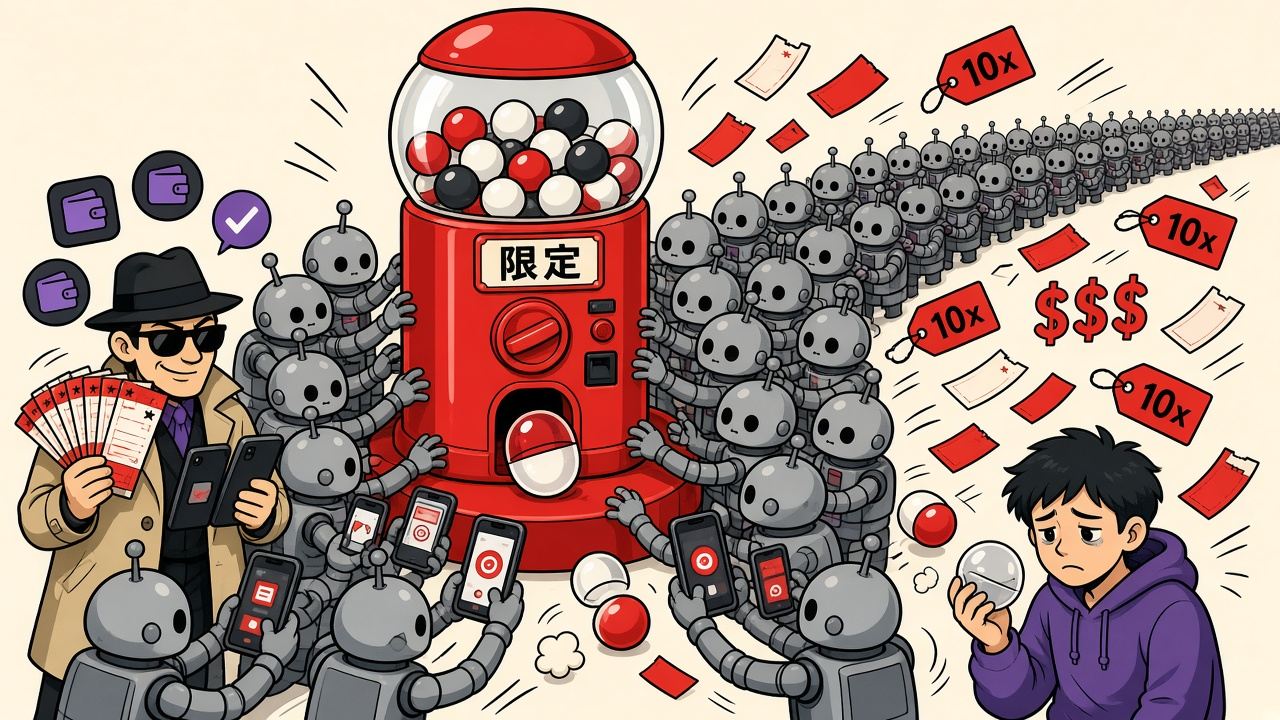
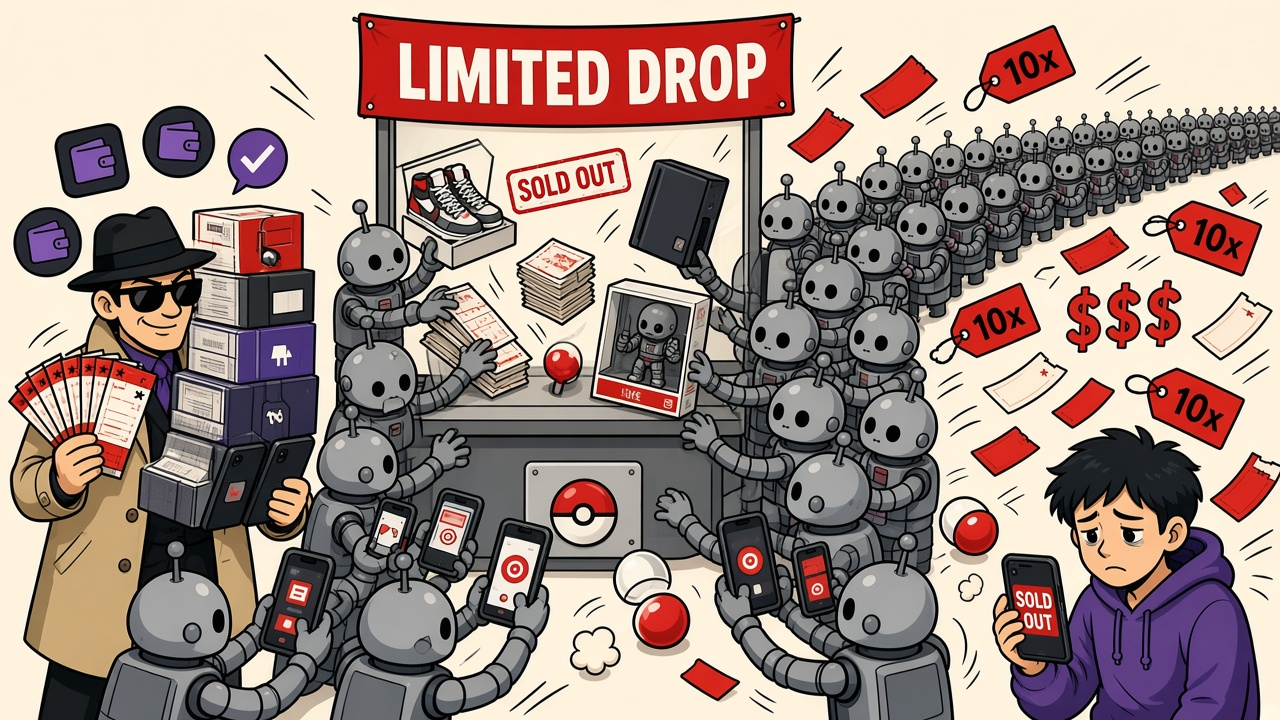
The problem is scalping of any limited drop; the capsule machine is just what we bring to the booth. Cleaner how-it-fits diagram

diff --git a/README.md b/README.md
@@ -4,7 +4,7 @@
   <img src="images/brand/asp-lockup.png" alt="Asp 限定自販機" width="45%"/>
 
 **One human. One item. Settled on Monad.**  
-A drop machine where every claim is a USDC payment on Monad that only a real person can make.
+Anti-scalping for limited drops: every claim is a USDC payment on Monad that only a real, verified person can make.
 
 <sub>BUILT ON</sub>&nbsp;&nbsp;<a href="https://monad.xyz"><img src="images/monad/monad-logo.svg" alt="Monad" height="22" align="absmiddle"/></a>
 
@@ -22,7 +22,7 @@ A drop machine where every claim is a USDC payment on Monad that only a real per
 | Track | **03 · Social, Attention & Culture**: ticketing and access that follow a *person*, not an email or a wallet |
 | On Monad | Kiosk payments verified on-chain · [`AspDrop`](https://monadvision.com/address/0x942c1a378b961fb7a95b83ecaf55fecee42c6187) ERC-721 with on-chain art · x402 agent payments with our own Monad facilitator |
 | Identity | World ID (Proof of Human), so only real people reach the Monad payment |
-| Hardware | XIAO ESP32-C5 gachapon that turns only after Monad confirms the payment |
+| Demo | A physical capsule machine (XIAO ESP32-C5) and an on-chain NFT drop, both released only after Monad confirms the payment |
 | Live | [altaga-asp.expo.app](https://altaga-asp.expo.app) |
 
 Built inside the [Metropolis](https://monad.xyz/developers/hackathons/metropolis) window: the repo starts on 30 Sep 2026.
@@ -34,17 +34,17 @@ Built inside the [Metropolis](https://monad.xyz/developers/hackathons/metropolis
 <div align="center">
   <img src="images/monad/monad-logo.svg" alt="Monad" height="40"/>
   <br/><br/>
-  <img src="images/monad-fair-drop.jpg" alt="One fan pays on Monad and gets one capsule; bots stay behind the glass" width="85%"/>
+  <img src="images/monad-fair-drop.jpg" alt="One verified fan pays on Monad and gets one item; bots stay behind the glass" width="85%"/>
 </div>
 
-Monad is the source of truth in Asp. A machine doesn't move, and an NFT doesn't mint, until the chain says the money arrived.
+Monad is the source of truth in Asp. Nothing is released, whether a physical item, an NFT or an access pass, until the chain says the money arrived.
 
 ```mermaid
 flowchart LR
   Pay["Phone wallet<br/>USDC transfer"]:::monad --> Chain[("Monad mainnet")]:::monad
   Agent["Agent<br/>x402 authorization"]:::monad --> Chain
   Chain -->|receipt verified| GW[asp-gateway]
-  GW -->|one turn| Motor[Gachapon]
+  GW -->|release once| Item["Physical item<br/>(demo: capsule machine)"]
   GW -->|"release()"| Drop["AspDrop<br/>on Monad"]:::monad
   classDef monad fill:#836EF9,stroke:#5B45D6,color:#fff
 ```
@@ -72,7 +72,7 @@ The nonce tag is `keccak256("asp-kiosk:" + nonce)`, appended to a normal `transf
 
 ### <img src="images/monad/monad-mark.svg" height="20"/> 2 · The drop lives on Monad
 
-[`AspDrop`](https://monadvision.com/address/0x942c1a378b961fb7a95b83ecaf55fecee42c6187) is a 20-edition ERC-721 on Monad mainnet. The capsule art is generated **by the contract** (`tokenURI` → base64 JSON → base64 SVG), so there's no IPFS and no server to go down.
+Digital limited items get the same protection. [`AspDrop`](https://monadvision.com/address/0x942c1a378b961fb7a95b83ecaf55fecee42c6187) is a 20-edition ERC-721 on Monad mainnet, and the demo's collection. The art is generated **by the contract** (`tokenURI` → base64 JSON → base64 SVG), so there's no IPFS and no server to go down.
 
 ```mermaid
 flowchart LR
@@ -104,10 +104,10 @@ flowchart LR
 
 ### Why Monad
 
-| | Why it matters at a vending machine |
+| | Why it matters for a drop |
 |---|---|
-| **Sub-second blocks** | Someone is standing in front of the machine. The payment confirms before they look up from the phone. |
-| **Cheap gas** | Minting a collectible per claim, and verifying every claim on-chain, only makes sense when it costs fractions of a cent. |
+| **Sub-second blocks** | Drops sell out in seconds and someone is standing at the counter. The payment confirms before they look up from the phone. |
+| **Cheap gas** | Verifying every claim on-chain, and minting a collectible per claim, only makes sense when it costs fractions of a cent. |
 | **Full EVM** | Circle USDC with EIP-3009, solc, viem, wagmi, Reown AppKit and x402's EVM scheme all work unchanged. |
 
 | On Monad mainnet | Address |
@@ -121,12 +121,12 @@ flowchart LR
 ## The problem
 
 <div align="center">
-  <img src="images/problem-scalpers.jpg" alt="Bots, farmed wallets and a reseller swarm a limited capsule machine while the real fan walks away empty-handed" width="85%"/>
+  <img src="images/problem-scalpers.jpg" alt="Bots and a reseller sweep a limited drop of sneakers, tickets and consoles while the real fan sees SOLD OUT" width="85%"/>
 </div>
 
-A limited capsule drops. Fans line up, and so do bots, farmed wallets and resellers. The real fan walks away with an empty capsule, and the item shows up on resale at 10x.
+Sneakers, concert tickets, consoles, collectible figures, art toys: every **limited** drop ends the same way. It sells out in seconds to bots, farmed accounts and resellers, the real fan sees *SOLD OUT*, and an hour later the item is on resale at 10x.
 
-A payment on its own tells you someone *paid*. It doesn't tell you:
+Drops are gated by things that are cheap to fake: an email, an account, a wallet, a queue position. A payment on its own tells you someone *paid*. It doesn't tell you:
 
 | Question | Why a payment alone fails |
 |---|---|
@@ -134,14 +134,16 @@ A payment on its own tells you someone *paid*. It doesn't tell you:
 | Is it the **same** person who won? | Tickets get resold the moment they exist. |
 | Did they **already** claim? | A second wallet, a second account or a retry looks like a new buyer. |
 
-So Asp puts **World** in front of the Monad payment. Your ticket is welded to a zk nullifier: a number unique to you for this drop, without revealing who you are. At claim time you prove again, and only if the nullifier matches do you get to pay.
+So Asp puts **World** in front of the Monad payment. Your ticket is welded to a zk nullifier: a number unique to you for this drop, without revealing who you are. At claim time you prove again, and only if the nullifier matches do you get to pay. One person can't become a thousand buyers, and a ticket can't be resold to someone else.
 
 ```text
 Win      World selfie → ticket WIN-… bound to your nullifier
 Claim    Same human, same nullifier, or the claim dies
 Pay      Phone wallet over WalletConnect → tagged USDC transfer on Monad
-Release  Monad confirms → one motor turn, or one AspDrop edition. Never twice.
+Release  Monad confirms → one item out. Never twice.
 ```
+
+**The demo** uses a capsule machine because it's small enough to bring to a booth: a real XIAO ESP32-C5 machine that turns once per paid claim, plus an on-chain NFT version of the same drop. The gateway doesn't care what the item is. The same flow can release a sneaker pickup, a concert entry or a console reservation.
 
 ---
 
@@ -156,7 +158,7 @@ Release  Monad confirms → one motor turn, or one AspDrop edition. Never twice.
   <tr>
     <td><b>1 · Get</b><br/>Prove you're human with a World selfie. The machine holds one item for you and prints a <code>WIN-…</code> ticket.</td>
     <td><b>2 · Claim</b><br/>Enter the ticket, prove again (same nullifier), scan the WalletConnect QR and pay 0.002 USDC on Monad from your phone.</td>
-    <td><b>3 · Release</b><br/>The gateway confirms the transfer on Monad, then the gachapon turns once, or one <code>AspDrop</code> edition lands in your wallet.</td>
+    <td><b>3 · Release</b><br/>The gateway confirms the transfer on Monad, then the demo machine releases one item, or one <code>AspDrop</code> edition lands in your wallet.</td>
   </tr>
 </table>
 
@@ -191,21 +193,17 @@ Every deny path, with error codes: [TECHNICAL.md](./TECHNICAL.md).
 
 ```mermaid
 flowchart LR
-  Human((Human)) -->|World selfie| Dapp[asp-dapp]
-  Dapp --> GW[asp-gateway]
-  Agent((Agent)) -->|x402| GW
+  H(("Human")):::person -->|"1. prove"| W["World ID"]:::world
+  W -->|"2. ticket bound<br/>to nullifier"| GW["asp-gateway<br/>one human, one item"]
+  H -->|"3. pay USDC<br/>WalletConnect"| M[("Monad<br/>mainnet")]:::monad
+  A(("Agent")):::person -->|"x402 hire"| M
+  M -->|"4. payment<br/>verified on-chain"| GW
+  GW -->|"5. release once"| I["Limited item<br/>machine · NFT · access"]:::item
 
-  subgraph Monad["Monad mainnet"]
-    USDC[USDC transfer]
-    X402[x402 settlement]
-    Drop[AspDrop NFT]
-  end
-
-  Human -->|WalletConnect| USDC
-  USDC -->|receipt verified| GW
-  X402 --> GW
-  GW -->|release| Drop
-  GW -->|MQTT| Motor[Gachapon]
+  classDef monad fill:#836EF9,stroke:#5B45D6,color:#fff
+  classDef world fill:#231815,stroke:#888,color:#fff
+  classDef person fill:#FFF8EF,stroke:#E8112D,color:#231815
+  classDef item fill:#E8112D,stroke:#B00D22,color:#fff
 ```
 
 | Package | Job |
@@ -214,13 +212,13 @@ flowchart LR
 | [`asp-nft`](asp-nft) | `AspDrop.sol`: ERC-721 limited run on Monad with on-chain SVG |
 | [`asp-dapp`](asp-dapp) | Dispenser UI (Expo web), World verify, WalletConnect pay on Monad (Reown AppKit + wagmi), NFT release |
 | [`x402-examples`](x402-examples) | Monad x402 facilitator for agent hires |
-| [`asp-devices`](asp-devices) | XIAO ESP32-C5 firmware: waits for one dispense from the gateway |
+| [`asp-devices`](asp-devices) | XIAO ESP32-C5 firmware for the demo machine: waits for one release from the gateway |
 
 ---
 
-## The capsules
+## The demo collection
 
-Ten colorways, twenty editions, all drawn by the contract on Monad.
+For the booth we made a small drop of capsule art toys: ten colorways, twenty editions, all drawn by the contract on Monad.
 
 <div align="center">
   <img src="images/capsules/capsule-01-monad-violet.png" width="9%"/>
